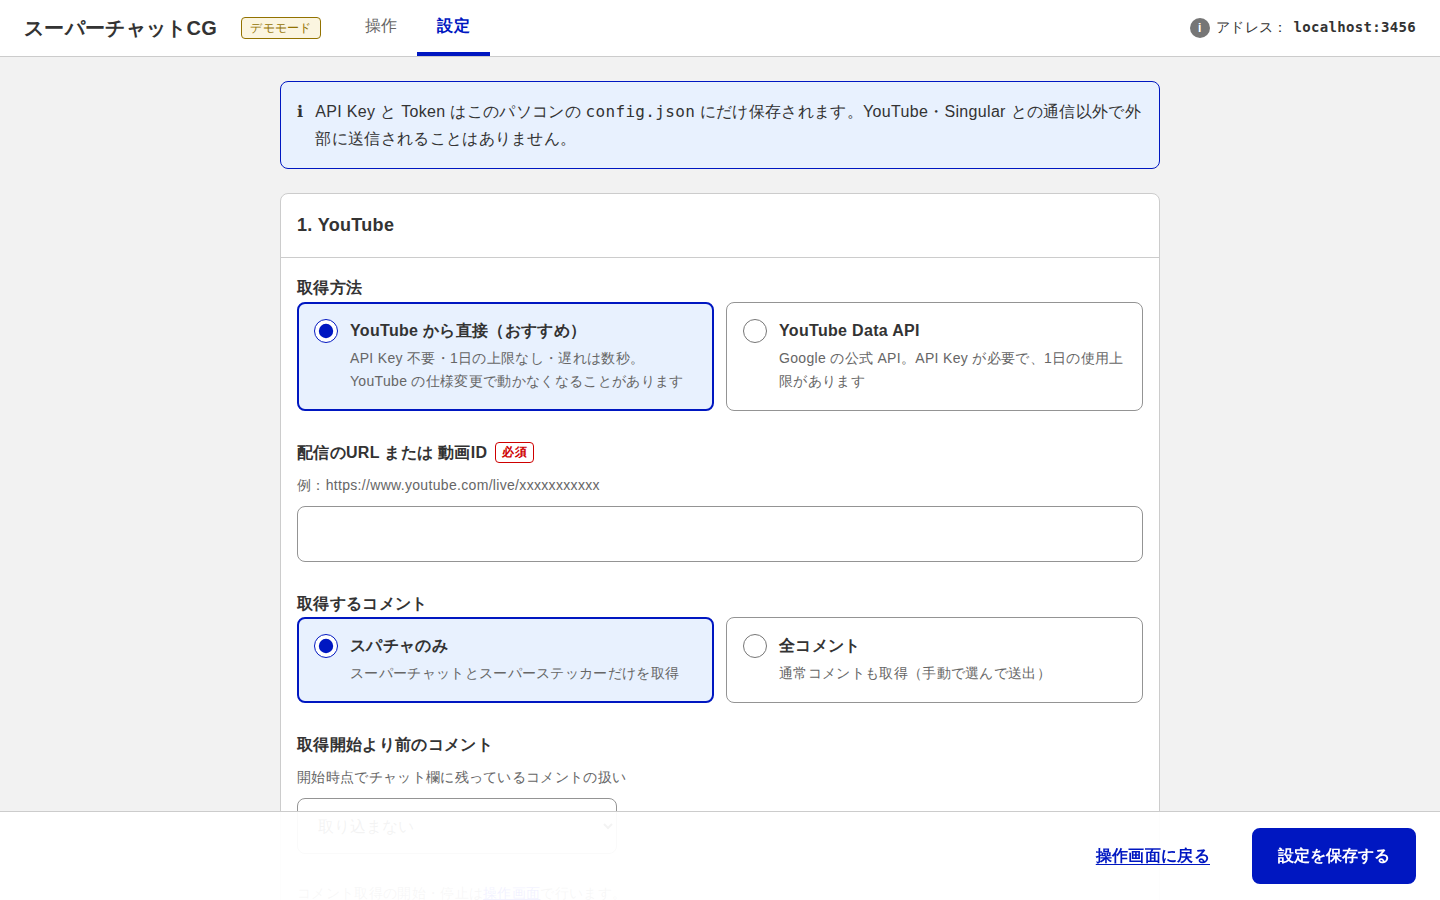
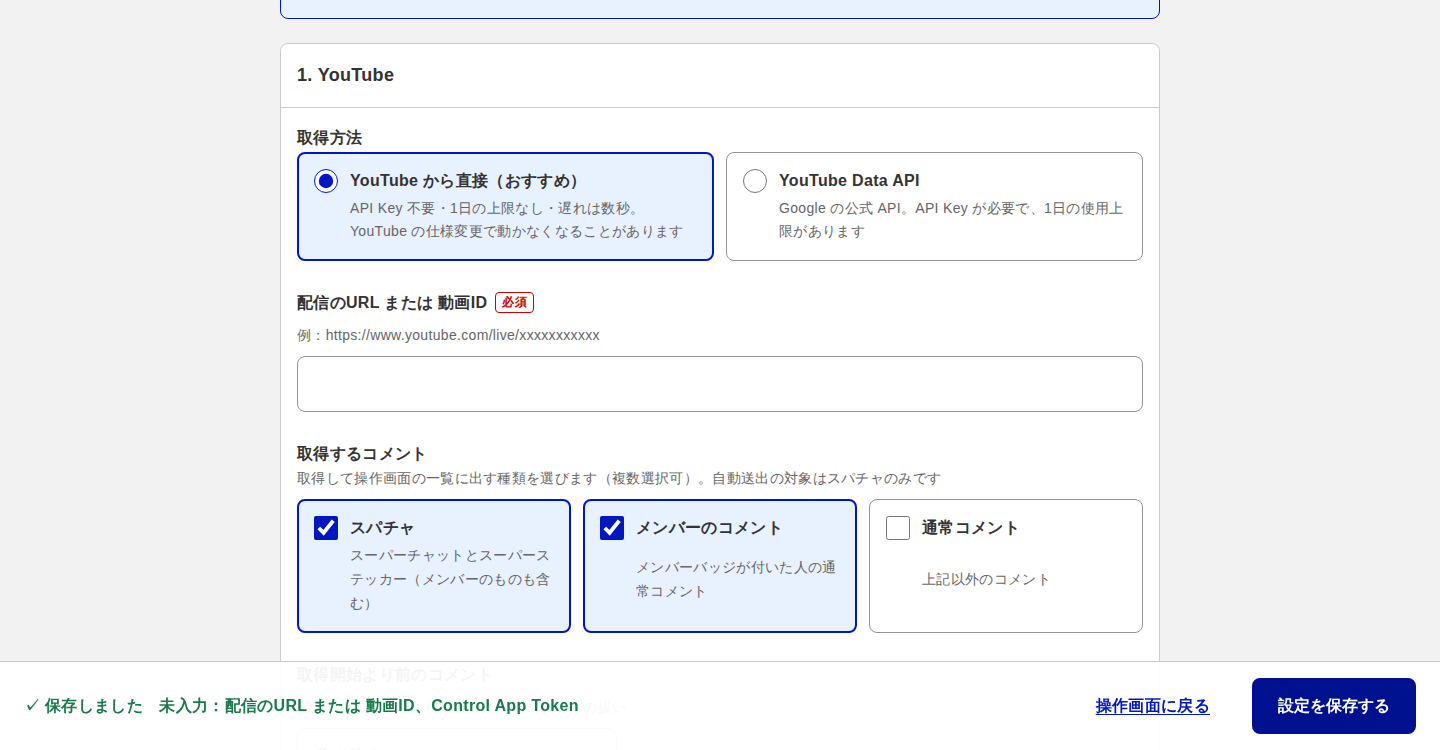
取得するコメントを「スパチャ／メンバーのコメント／通常コメント」の3分類から組み合わせて選べるように
- 設定の「取得するコメント」をチェックボックス3つに変更（1つ以上必須）
- メンバーのスパチャはスパチャとして扱う
- 操作画面の一覧は設定した種類だけを表示（旧「スパチャのみ／全コメント」の切替は削除）
- 旧設定（mode: all / superchat）は自動で引き継ぎ

Claude-Session: https://claude.ai/code/session_01KgT6C3iMZ94U8jAFNjMxFV

diff --git a/public/ops.js b/public/ops.js
@@ -11,7 +11,6 @@ const state = {
   youtube: { running: false, title: '', lastError: '' },
   settings: null,
   selectedId: null,
-  view: localStorageGet('viewMode') || null,
   demo: false,
   freshIds: new Set(),
 };
@@ -53,10 +52,9 @@ async function guarded(fn) {
 // ---------- 表示ヘルパー ----------
 const find = (id) => state.messages.find((m) => m.id === id) || state.cg.queue.find((m) => m.id === id) || (state.cg.current?.id === id ? state.cg.current : null);
 const inQueue = (id) => state.cg.queue.some((q) => q.id === id);
-// 設定で「スパチャのみ」取得なら通常コメントは届かないので、表示切替も出さない
-const fetchAll = () => state.settings?.youtube.mode === 'all';
-const viewMode = () => (fetchAll() ? state.view || 'all' : 'superchat');
-const visible = (m) => (viewMode() === 'all' || m.type !== 'text') && !($('hideSent').checked && m.sent);
+// コメントの種類（メンバーのスパチャはスパチャ扱い）。設定で選んだ種類だけを表示する
+const categoryOf = (m) => (m.type !== 'text' ? 'superchat' : m.isMember ? 'member' : 'normal');
+const visible = (m) => (state.settings?.youtube.categories?.[categoryOf(m)] ?? true) && !($('hideSent').checked && m.sent);
 const tierStyle = (m) => `--tier:${m.colors?.header || 'var(--gray-200)'};--tier-fg:${m.colors?.text || '#fff'}`;
 const amountBadge = (m) => (m.amount ? `<span class="amount" style="${tierStyle(m)}"><span class="visually-hidden">スーパーチャット </span>${esc(m.amount)}</span>` : '');
 // コメント本文を HTML に。チャンネル独自の絵文字（:_name:）は画像で表示する
@@ -184,8 +182,6 @@ function renderStatus() {
   $('ytLabel').textContent = on ? (yt.lastError ? '再試行中' : '取得中') : yt.reconnecting ? '再接続中' : yt.lastError ? 'エラー' : '停止中';
   $('sendModeLabel').textContent = state.settings ? (state.settings.singular.autoSend ? (state.cg.halted ? '自動（一時停止中）' : '自動') : '手動') : '—';
   $('demoBadge').hidden = !state.demo;
-  $('modeSeg').hidden = !fetchAll();
-  document.querySelectorAll('input[name=mode]').forEach((r) => { r.checked = r.value === viewMode(); });
 }
 
 const hm = (t) => new Date(t).toLocaleTimeString('ja-JP', { hour: '2-digit', minute: '2-digit' });
@@ -319,9 +315,6 @@ $('liveBtn').onclick = async () => {
     renderStatus();
   }
 };
-document.querySelectorAll('input[name=mode]').forEach((r) => {
-  r.onchange = () => { state.view = r.value; localStorageSet('viewMode', r.value); renderFeed(); };
-});
 $('hideSent').onchange = renderFeed;
 $('pause').onchange = renderFeed;
 

diff --git a/lib/config.js b/lib/config.js
@@ -16,8 +16,9 @@ const DEFAULTS = {
     source: 'web',
     apiKey: '',
     video: '',
-    // 'superchat' = スーパーチャット（＋スーパーステッカー）のみ / 'all' = 通常コメントも含む
-    mode: 'superchat',
+    // 取得・表示するコメントの種類（組み合わせ自由）
+    // superchat = スーパーチャット／ステッカー、member = メンバーのコメント、normal = それ以外の通常コメント
+    categories: { superchat: true, member: false, normal: false },
     // 'auto' = 1日のクォータを配信時間に均等に割り振る / 'fixed' = minIntervalMs ごと
     pacing: 'auto',
     minIntervalMs: 5000,
@@ -68,8 +69,12 @@ function merge(base, override) {
 
 function load() {
   try {
-    const raw = fs.readFileSync(CONFIG_PATH, 'utf8');
-    return merge(DEFAULTS, JSON.parse(raw));
+    const raw = JSON.parse(fs.readFileSync(CONFIG_PATH, 'utf8'));
+    // 旧設定（mode: 'all' = 全コメント）からの引き継ぎ
+    if (raw.youtube && !raw.youtube.categories && raw.youtube.mode === 'all') {
+      raw.youtube.categories = { superchat: true, member: true, normal: true };
+    }
+    return merge(DEFAULTS, raw);
   } catch (e) {
     if (e.code !== 'ENOENT') console.warn(`[config] ${CONFIG_PATH} の読み込みに失敗しました: ${e.message}`);
     return merge(DEFAULTS, {});
@@ -80,4 +85,10 @@ function save(settings) {
   fs.writeFileSync(CONFIG_PATH, JSON.stringify(settings, null, 2), 'utf8');
 }
 
-module.exports = { load, save, merge, DEFAULTS, CONFIG_PATH };
+// コメントの種類。メンバーのスパチャはスパチャとして扱う
+function categoryOf(msg) {
+  if (msg.type !== 'text') return 'superchat';
+  return msg.isMember ? 'member' : 'normal';
+}
+
+module.exports = { categoryOf, load, save, merge, DEFAULTS, CONFIG_PATH };

diff --git a/public/settings.js b/public/settings.js
@@ -16,7 +16,9 @@ function fill(s) {
   $('ytKey').placeholder = s.youtube.hasApiKey ? '設定済み（変更する場合のみ入力）' : '';
   $('ytKey-state').textContent = s.youtube.hasApiKey ? '✓ 設定済み' : '';
   $('ytVideo').value = s.youtube.video;
-  setRadio('fetchMode', s.youtube.mode);
+  $('catSuperchat').checked = s.youtube.categories.superchat;
+  $('catMember').checked = s.youtube.categories.member;
+  $('catNormal').checked = s.youtube.categories.normal;
   setRadio('source', s.youtube.source);
   setRadio('pacing', s.youtube.pacing);
   $('ytQuota').value = s.youtube.dailyQuota;
@@ -84,7 +86,7 @@ function collect() {
     youtube: {
       apiKey: $('ytKey').value.trim(),
       video: $('ytVideo').value.trim(),
-      mode: radio('fetchMode'),
+      categories: { superchat: $('catSuperchat').checked, member: $('catMember').checked, normal: $('catNormal').checked },
       source: radio('source'),
       pacing: radio('pacing'),
       dailyQuota: Number($('ytQuota').value),
@@ -110,7 +112,7 @@ function collect() {
   };
 }
 
-const LABELS = { port: 'portInput', fetchMode: 'fetchMode', ytInterval: 'ytInterval', ytQuota: 'ytQuota', pacing: 'pacing', source: 'source', dispSec: 'dispSec', gapSec: 'gapSec' };
+const LABELS = { port: 'portInput', catSuperchat: 'catSuperchat', ytInterval: 'ytInterval', ytQuota: 'ytQuota', pacing: 'pacing', source: 'source', dispSec: 'dispSec', gapSec: 'gapSec' };
 
 function showErrors(errors) {
   document.querySelectorAll('[aria-invalid]').forEach((el) => el.removeAttribute('aria-invalid'));

diff --git a/public/settings.html b/public/settings.html
@@ -51,9 +51,11 @@
         </div>
         <fieldset class="field">
           <legend class="legend">取得するコメント</legend>
-          <div class="radio-cards">
-            <label class="radio-card"><input type="radio" name="fetchMode" value="superchat"><b>スパチャのみ</b><span class="support">スーパーチャットとスーパーステッカーだけを取得</span></label>
-            <label class="radio-card"><input type="radio" name="fetchMode" value="all"><b>全コメント</b><span class="support">通常コメントも取得（手動で選んで送出）</span></label>
+          <p class="support">取得して操作画面の一覧に出す種類を選びます（複数選択可）。自動送出の対象はスパチャのみです</p>
+          <div class="radio-cards check-cards">
+            <label class="radio-card"><input type="checkbox" id="catSuperchat"><b>スパチャ</b><span class="support">スーパーチャットとスーパーステッカー（メンバーのものも含む）</span></label>
+            <label class="radio-card"><input type="checkbox" id="catMember"><b>メンバーのコメント</b><span class="support">メンバーバッジが付いた人の通常コメント</span></label>
+            <label class="radio-card"><input type="checkbox" id="catNormal"><b>通常コメント</b><span class="support">上記以外のコメント</span></label>
           </div>
         </fieldset>
         <div class="form-grid api-only" id="apiFields">

diff --git a/server.js b/server.js
@@ -113,7 +113,7 @@ function findMessage(id) {
 }
 
 function onChatMessage(msg) {
-  if (settings.youtube.mode === 'superchat' && msg.type === 'text') return;
+  if (!settings.youtube.categories[config.categoryOf(msg)]) return;
   if (history.some((m) => m.id === msg.id)) return;
   msg.sent = false;
   history.unshift(msg);
@@ -160,7 +160,7 @@ function publicSettings() {
 function validate(s) {
   const errors = [];
   if (!Number.isInteger(s.port) || s.port < 1024 || s.port > 65535) errors.push({ field: 'port', message: 'ポート番号は 1024〜65535 の整数で入力してください' });
-  if (!['superchat', 'all'].includes(s.youtube.mode)) errors.push({ field: 'fetchMode', message: '取得するコメントを選んでください' });
+  if (!Object.values(s.youtube.categories).some(Boolean)) errors.push({ field: 'catSuperchat', message: '取得するコメントを 1 つ以上選んでください' });
   if (!['web', 'api'].includes(s.youtube.source)) errors.push({ field: 'source', message: '取得方法を選んでください' });
   if (!['auto', 'fixed'].includes(s.youtube.pacing)) errors.push({ field: 'pacing', message: '取得間隔の決め方を選んでください' });
   if (!Number.isInteger(s.youtube.dailyQuota) || s.youtube.dailyQuota < 100) errors.push({ field: 'ytQuota', message: '1日の上限は 100 以上の整数で入力してください' });

diff --git a/public/index.html b/public/index.html
@@ -44,10 +44,6 @@
         <h2 id="feed-h">コメント</h2>
         <span class="count" id="count">0件</span>
         <div class="filters">
-          <div class="seg" role="radiogroup" aria-label="表示するコメント" id="modeSeg">
-            <label><input type="radio" name="mode" value="superchat" checked>スパチャのみ</label>
-            <label><input type="radio" name="mode" value="all">全コメント</label>
-          </div>
           <label class="check"><input type="checkbox" id="hideSent">送出済みを隠す</label>
           <label class="check"><input type="checkbox" id="pause">一覧を止める</label>
         </div>

diff --git a/public/style.css b/public/style.css
@@ -201,3 +201,5 @@ fieldset { border: 0; margin: 0; padding: 0; min-width: 0; }
 .api-only { padding: 20px; border: 1px solid var(--gray-200); border-radius: var(--radius); background: var(--gray-50); }
 .subhead { font-size: 1rem; margin: 0; }
 .yt-emoji { height: 1.4em; width: auto; vertical-align: -0.3em; margin: 0 1px; }
+.check-cards { grid-template-columns: repeat(3, 1fr); }
+@media (max-width: 700px) { .check-cards { grid-template-columns: 1fr; } }
